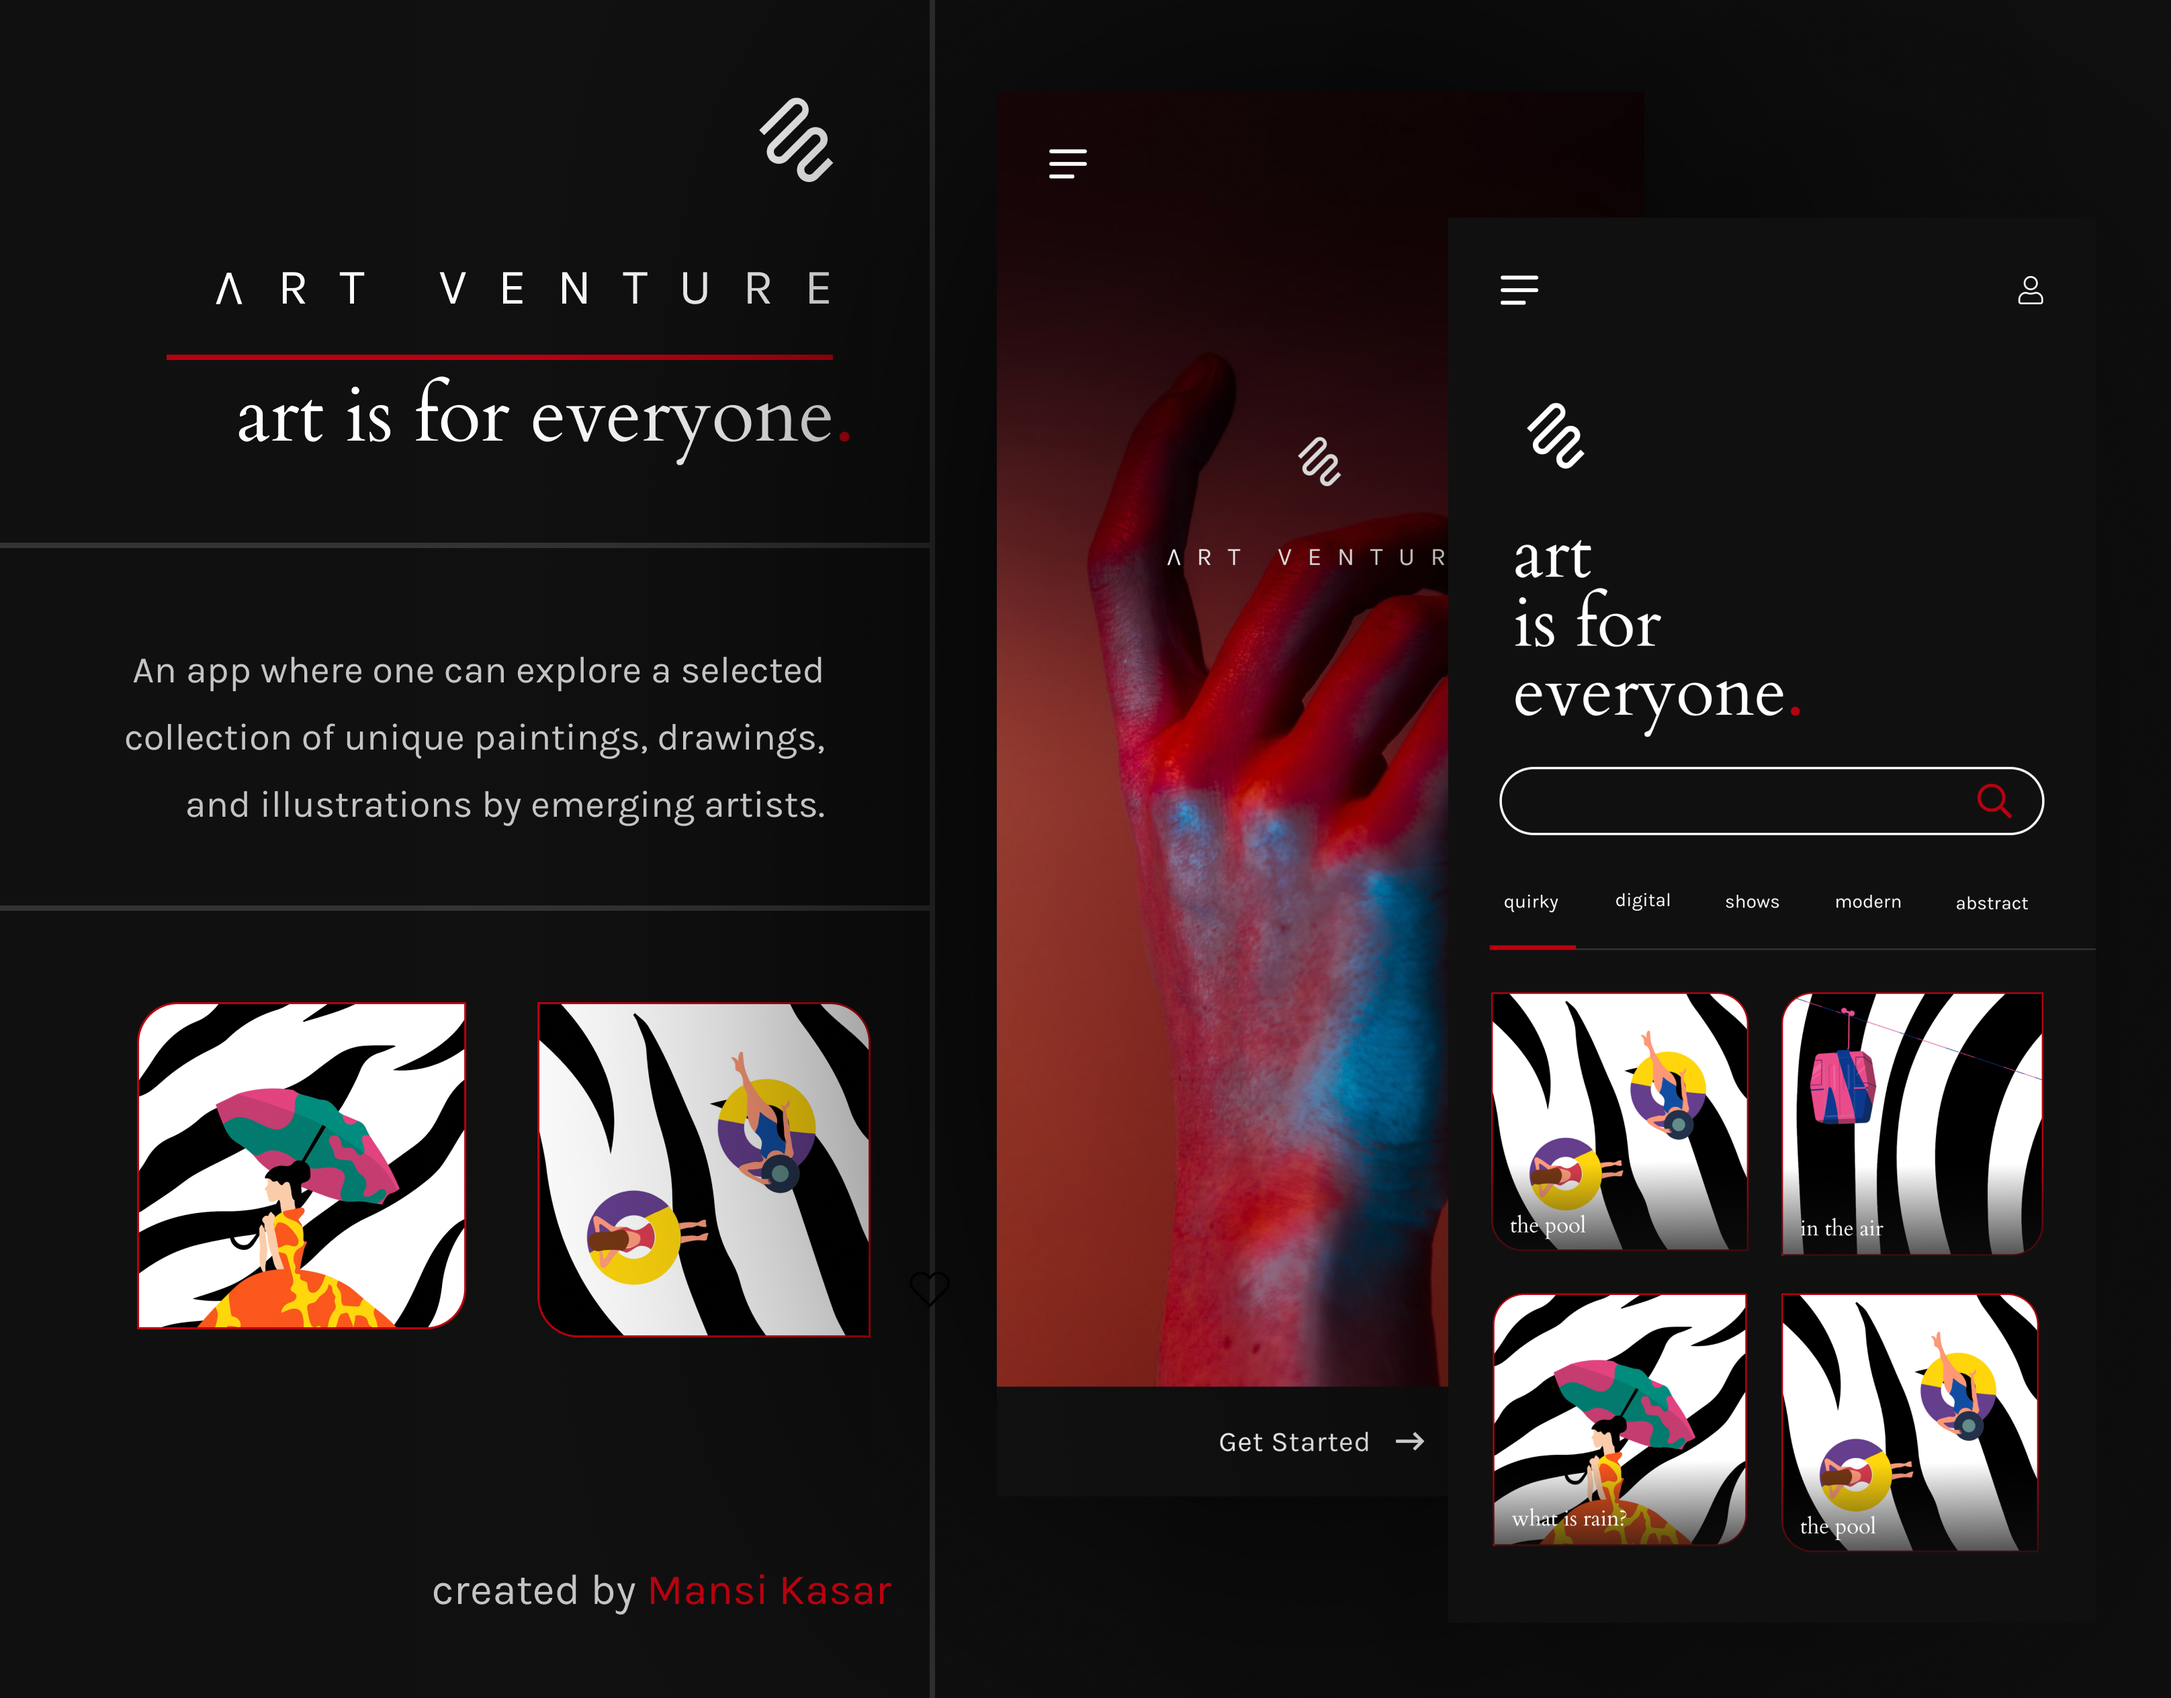
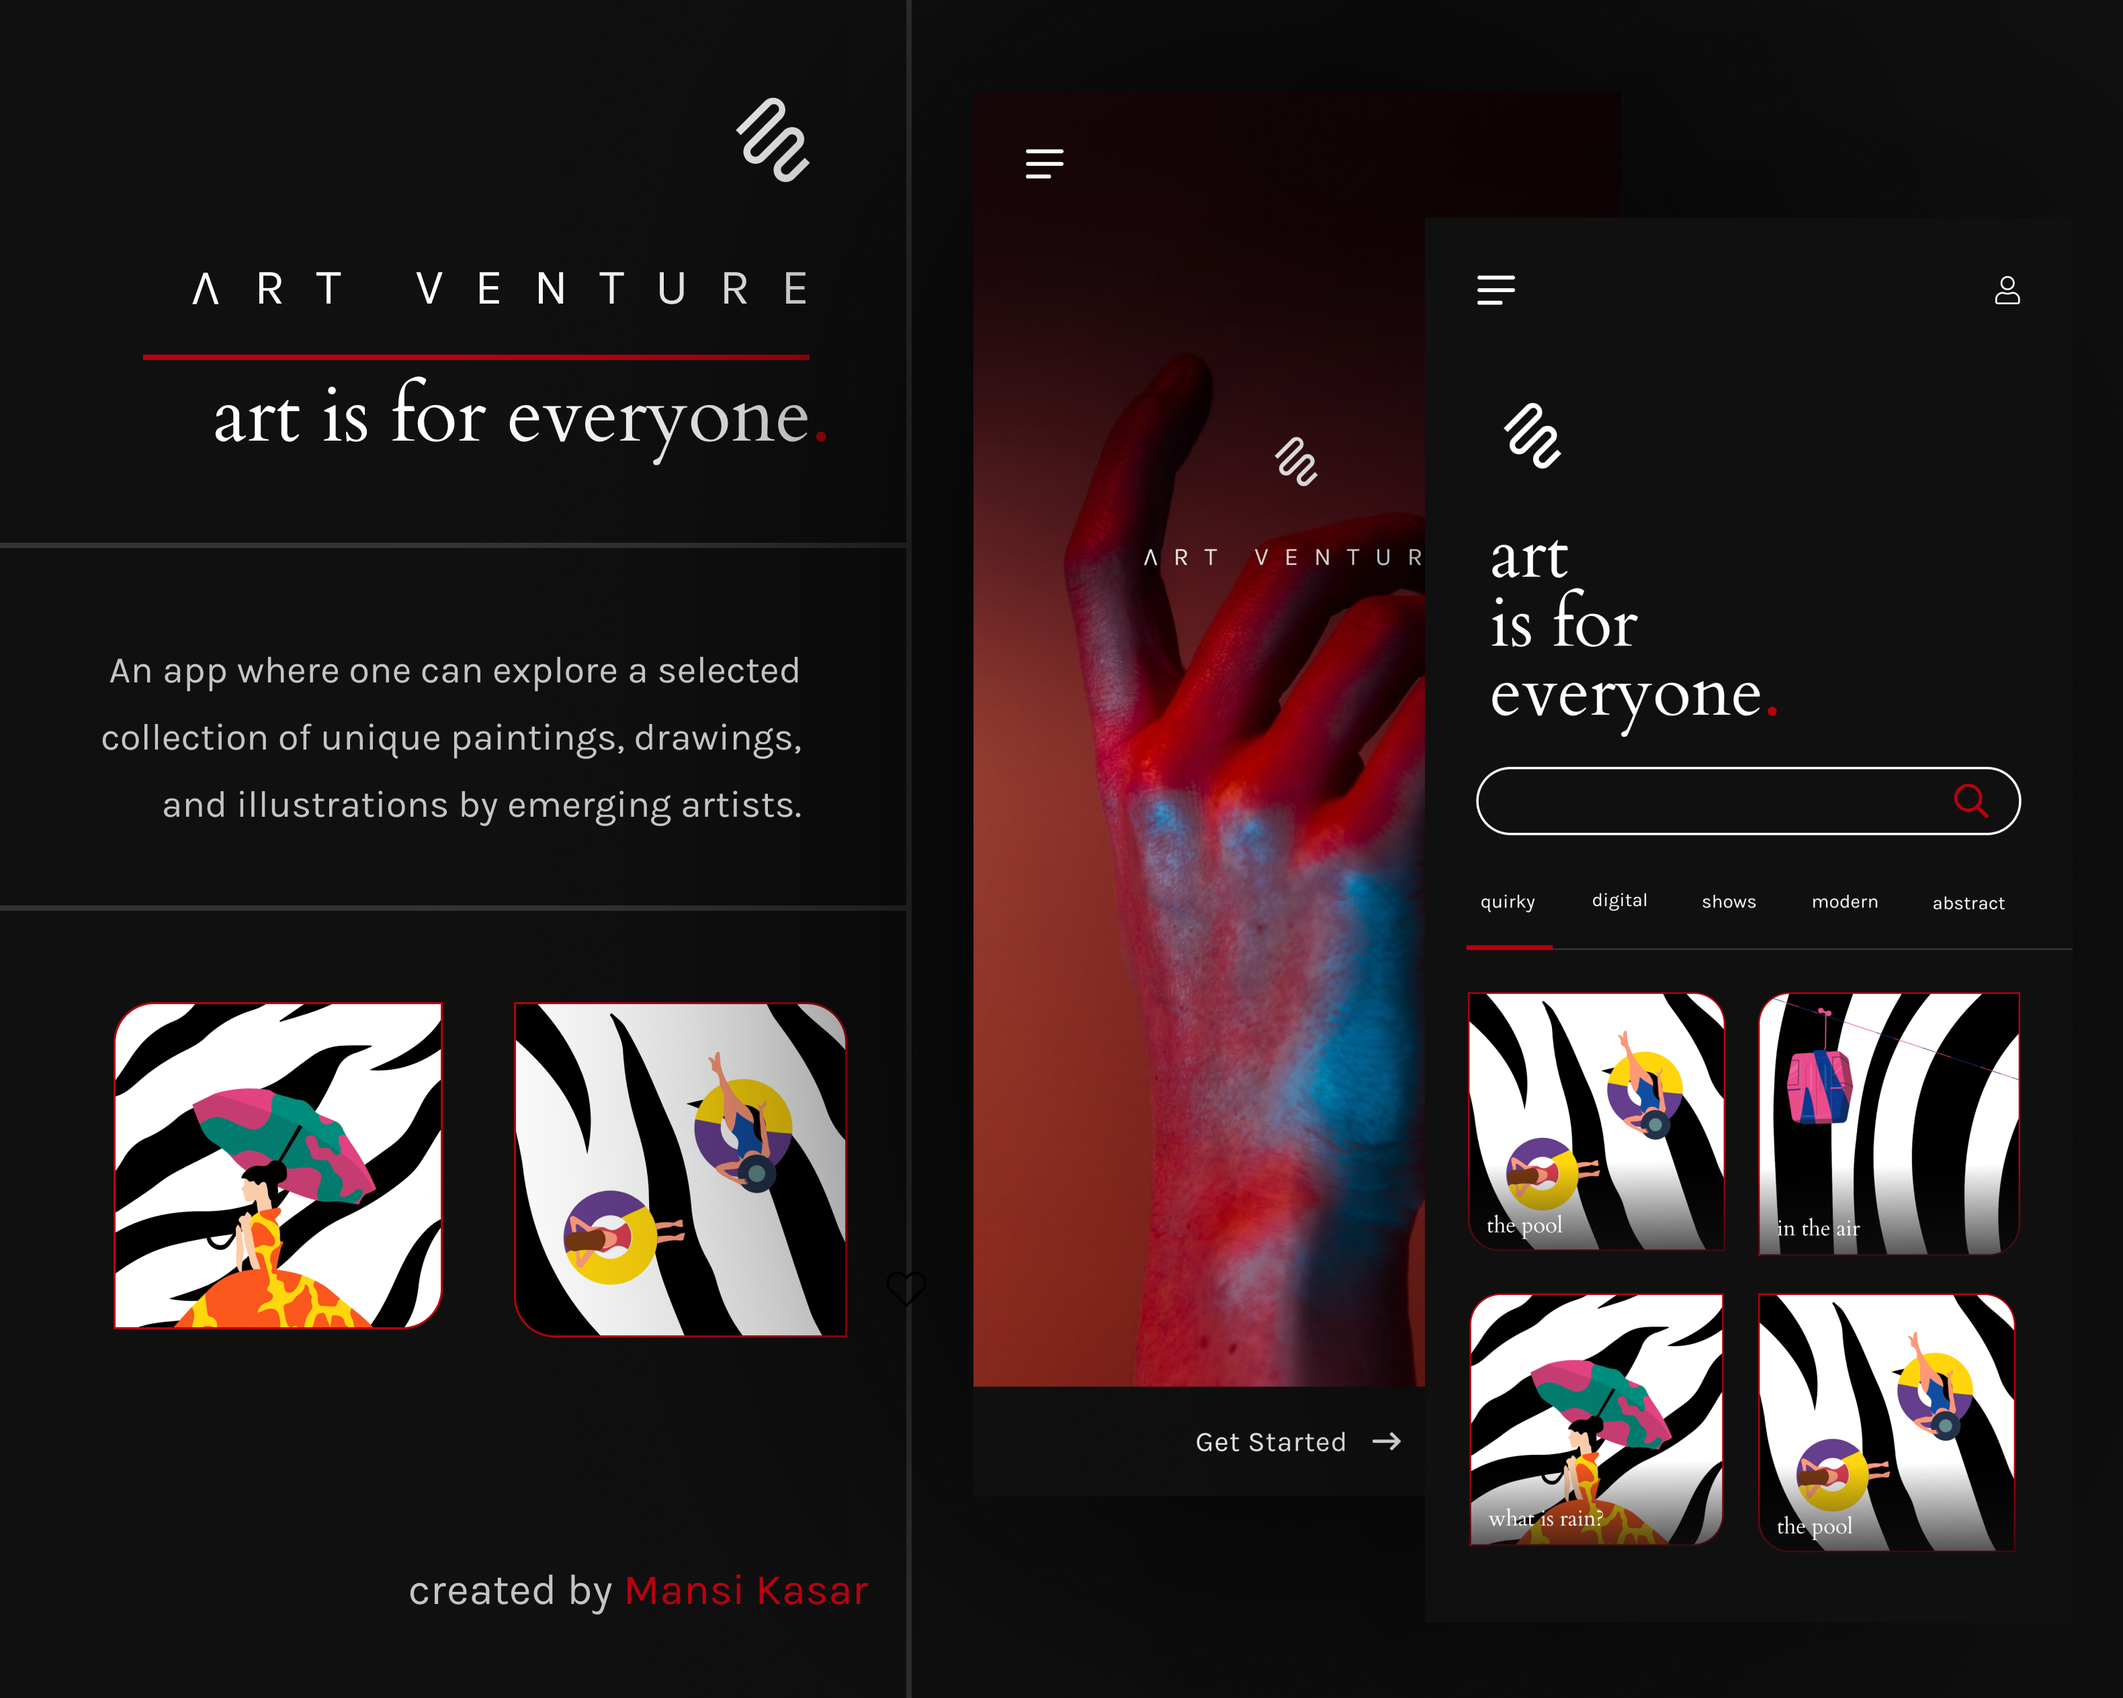
home page update and img update

diff --git a/components/Reusable Comp/Card.js b/components/Reusable Comp/Card.js
@@ -7,12 +7,13 @@ const Card = (props) => {
       <div className="">
         <Image
           src={props.imgSrc}
-          width={540}
-          height={489}
+          width={720}
+          height={576}
           quality="100"
-          layout="intrinsic"
+          layout="responsive"
+          objectFit="cover"
           alt={props.title}
-          className=" rounded-3xl"
+          className="object-left rounded-3xl"
         />
       </div>
       <h1 className="text-lg font-semibold text-card md:text-2xl ">
